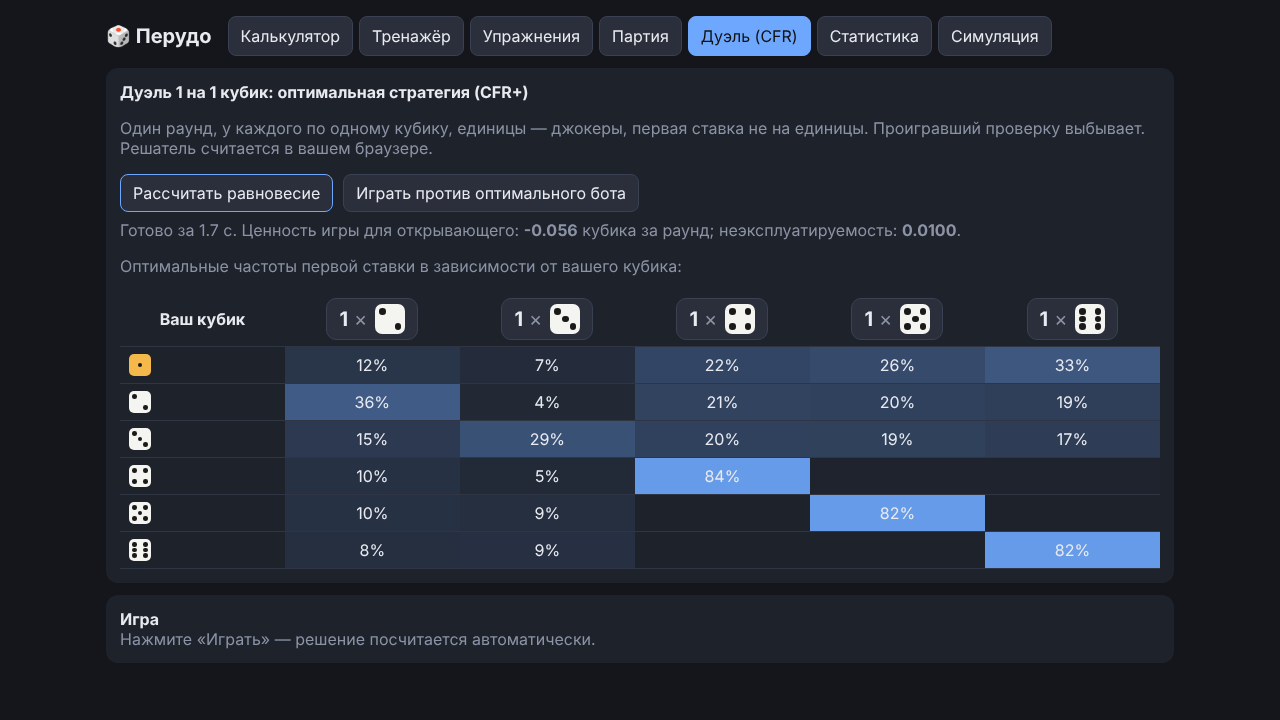
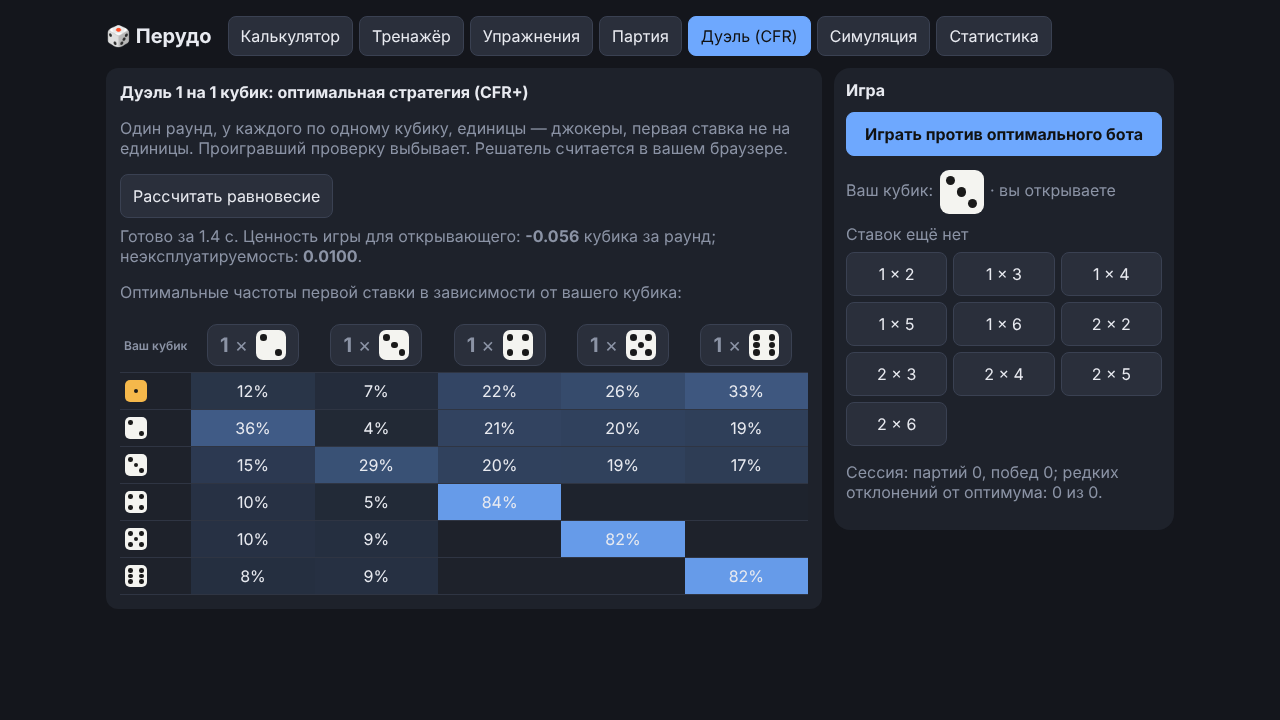
style: Симуляция: поля 44px/16px, кнопка запуска в панели, таблица внутри карточки
Запуск вынесен в панель: внизу экрана на телефоне, правая колонка на широком
экране и в ландшафте. Пороги test_learning_layout теперь обязательны для всех
семи измеряемых вкладок. Новые скриншоты Дуэли, Статистики и Симуляции в
README. Тексты и расчёты не менялись.

diff --git a/index.html b/index.html
@@ -509,16 +509,26 @@
           aria-label="Разделы приложения">☰</button>
         <h2 class="learn-hud-title">Симуляция</h2>
       </header>
-      <div class="card">
-        <div class="row">
-          <label>Всего кубиков <input id="sN" type="number" min="2" max="60" value="15" style="width:80px"></label>
-          <label>Бросков <input id="sR" type="number" value="100000" step="10000" style="width:100px"></label>
-          <label><input id="sW" type="checkbox" checked> джокеры</label>
-          <button id="sGo">Запустить Монте-Карло</button>
+      <div class="learn-layout sim-layout" id="simLayout">
+        <div class="learn-main">
+          <div class="card">
+            <div class="field-row">
+              <label class="field">Всего кубиков <input id="sN" type="number" min="2" max="60" value="15"
+                  inputmode="numeric"></label>
+              <label class="field">Бросков <input id="sR" type="number" value="100000" step="10000"
+                  inputmode="numeric"></label>
+              <label class="check"><input id="sW" type="checkbox" checked> джокеры</label>
+            </div>
+            <small>Проверка формулы: бросаем все кубики много раз и смотрим, как часто ставка оказывается верной,
+              когда рук никто не видит.</small>
+            <div id="sOut" class="sim-out"></div>
+          </div>
         </div>
-        <small>Проверка формулы: бросаем все кубики много раз и смотрим, как часто ставка оказывается верной,
-          когда рук никто не видит.</small>
-        <div id="sOut" style="margin-top:10px"></div>
+
+        <!-- Запуск: внизу экрана на телефоне, справа на широком -->
+        <div class="action-dock" id="simDock">
+          <button id="sGo" class="btn-primary sim-go">Запустить Монте-Карло</button>
+        </div>
       </div>
     </section>
     <!-- ================= СТАТИСТИКА ================= -->

diff --git a/tests/e2e/learning.spec.js b/tests/e2e/learning.spec.js
@@ -263,4 +263,20 @@ test.describe('Учебные вкладки', () => {
       }
     });
   });
+
+  test.describe('Симуляция', () => {
+    test('запуск Монте-Карло показывает таблицу рядом с формулой, кнопка всегда на экране', async ({ page }) => {
+      await open(page, 'sim');
+      const vh = page.viewportSize().height;
+      let b = await page.locator('#sGo').boundingBox();
+      expect(b.y + b.height).toBeLessThanOrEqual(vh + 1);
+      await page.fill('#sR', '2000');
+      await page.click('#sGo');
+      await expect(page.locator('#sOut table')).toBeVisible();
+      await expect(page.locator('#sOut th').nth(2)).toHaveText('Формула');
+      b = await page.locator('#sGo').boundingBox();
+      expect(b.y + b.height).toBeLessThanOrEqual(vh + 1);
+      expect(await page.evaluate(() => document.documentElement.scrollWidth <= window.innerWidth)).toBe(true);
+    });
+  });
 });

diff --git a/src/css/learn.css b/src/css/learn.css
@@ -183,7 +183,8 @@
   #cDock,
   #tDock,
   #dDock,
-  #duelDock {
+  #duelDock,
+  #simDock {
     position: sticky;
     top: var(--space-3);
   }
@@ -361,4 +362,28 @@
   .stats-actions {
     grid-template-columns: repeat(2, max-content);
   }
+}
+
+/* ===== Симуляция ===== */
+.sim-go {
+  min-height: var(--tap-lg);
+  font-weight: 700;
+}
+
+.sim-out {
+  margin-top: var(--space-3);
+  overflow-x: auto;
+}
+
+.sim-out:empty {
+  display: none;
+}
+
+.sim-out table {
+  table-layout: auto;
+}
+
+.sim-out th,
+.sim-out td {
+  padding: 6px 4px;
 }

diff --git a/tests/test_layout.py b/tests/test_layout.py
@@ -700,6 +700,33 @@ class LayoutTest(unittest.TestCase):
                     .map(e => e.id || e.className || e.textContent.trim())""")
                 self.assertEqual(small, [])
 
+    # ---------- Симуляция ----------
+
+    def test_sim_fields_buttons_and_table_fit(self):
+        for w, h in VIEWPORTS:
+            with self.subTest(w=w, h=h):
+                ctx = self.browser.new_context(viewport={"width": w, "height": h})
+                page = ctx.new_page()
+                self.addCleanup(ctx.close)
+                page.goto(self.url)
+                self.goto_tab(page, "sim")
+                page.fill("#sR", "2000")
+                page.click("#sGo")
+                page.wait_for_selector("#sOut table")
+                self.assertLessEqual(page.evaluate("document.documentElement.scrollWidth"), w)
+                self.assertFalse(page.locator("#sOut").evaluate("e => e.scrollWidth > e.clientWidth + 1"))
+                b = page.locator("#sGo").bounding_box()
+                self.assertLessEqual(b["y"] + b["height"], h + 1)
+                small = page.evaluate("""() => [...document.querySelectorAll('#sim button, #sim input, #sim select')]
+                    .filter(e => e.offsetParent !== null && e.type !== 'checkbox')
+                    .filter(e => { const r = e.getBoundingClientRect(); return r.height < 44 || r.width < 44; })
+                    .map(e => e.id || e.textContent.trim())""")
+                self.assertEqual(small, [])
+                fonts = page.evaluate("""() => [...document.querySelectorAll('#sim input')]
+                    .filter(e => e.offsetParent !== null && e.type !== 'checkbox')
+                    .filter(e => parseFloat(getComputedStyle(e).fontSize) < 16).map(e => e.id)""")
+                self.assertEqual(fonts, [])
+
     def test_learning_tabs_keep_ribbon_on_desktop(self):
         for tab in ("calc", "train", "drill", "duel", "stats", "sim"):
             with self.subTest(tab=tab):

diff --git a/tests/test_learning_layout.py b/tests/test_learning_layout.py
@@ -15,7 +15,7 @@ from tests.layout_audit import ROOT, _Quiet, measure_all
 
 
 # Вкладки, для которых пороги уже обязательны. Остальные добавляются по мере переделки вёрстки.
-STRICT_TABS = ("calc", "train", "drill", "duel", "stats")
+STRICT_TABS = ("calc", "train", "drill", "duel", "stats", "sim")
 
 
 def strict(rows):

diff --git a/tests/layout_audit.py b/tests/layout_audit.py
@@ -112,7 +112,7 @@ def measure_all(base_url, browser):
         page.fill("#sR", "2000")
         page.click("#sGo")
         page.wait_for_selector("#sOut table")
-        snap("sim: after run", "#sOut")
+        snap("sim: after run", "#sOut p")
         ctx.close()
     return rows
 
